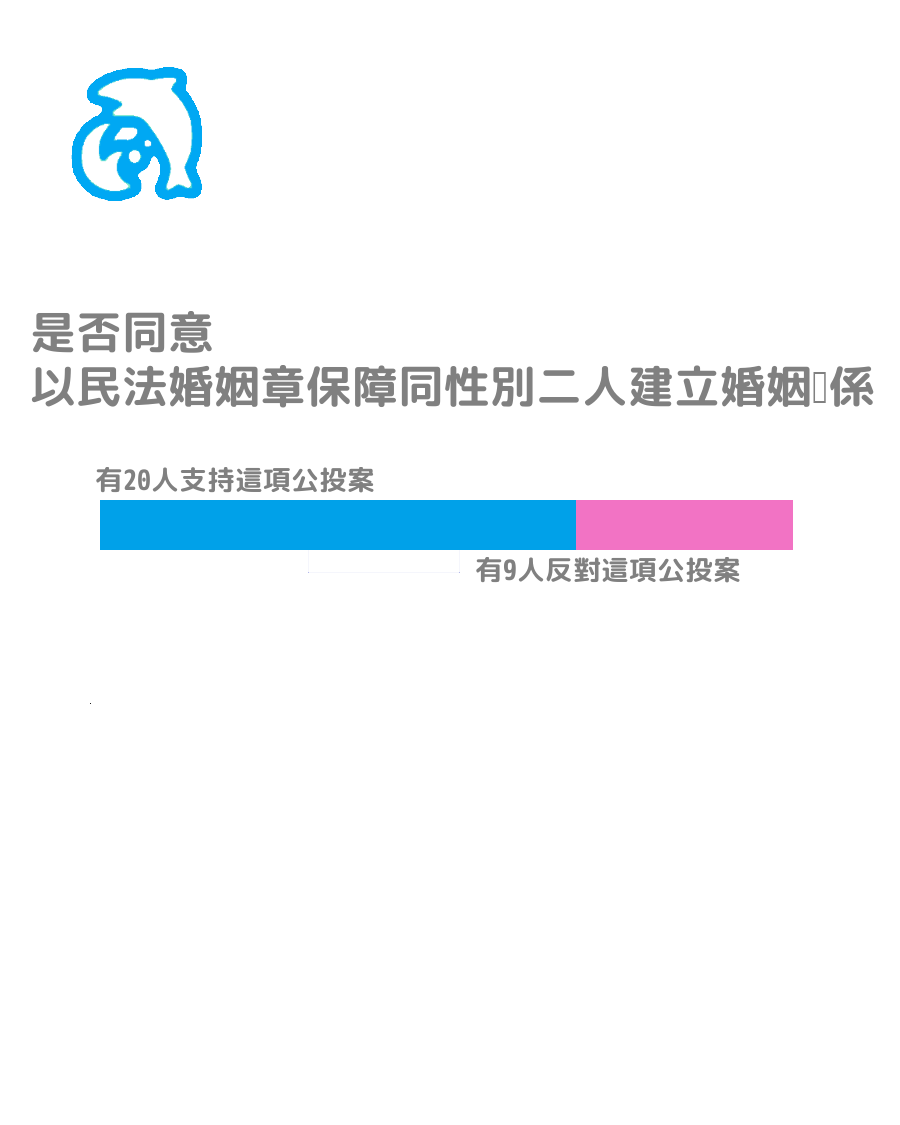
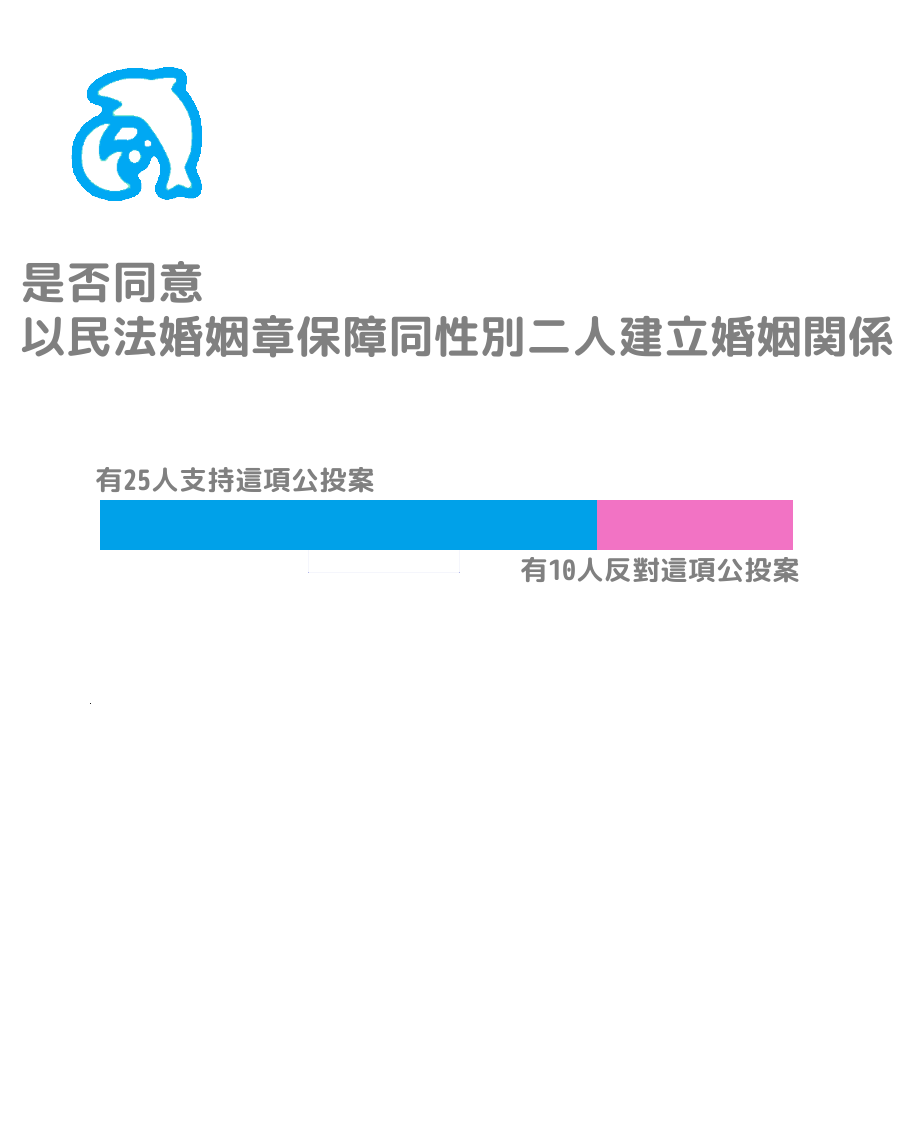
Add referundum15

Changed region(s): [[0.0, 0.2178, 0.9956, 0.3733], [0.5289, 0.4356, 0.9022, 0.5289]]

diff --git a/fsm.py b/fsm.py
@@ -298,8 +298,8 @@ class TocMachine(GraphMachine):
         print("I'm entering Referendum14")
 
         sender_id = event['sender']['id']
-        send_image_url(sender_id,opinionPoll('14','agree','是否同意'+'\n'+'以民法婚姻章保障同性別二人建立婚姻關係'))
-        #send_image_url(sender_id, "https://i.imgur.com/TD6h7i9.png")
+        send_image_url(sender_id,opinionPoll('14','agree','是否同意'+'\n'+'以民法婚姻章保障同性別二人建立婚姻関係'))
+        
         self.go_back()
 
     def is_going_to_Referendum14Oppose(self, event):
@@ -314,11 +314,58 @@ class TocMachine(GraphMachine):
         print("I'm entering Referendum14")
 
         sender_id = event['sender']['id']
-        send_image_url(sender_id,opinionPoll('14','oppose','是否同意'+'\n'+'以民法婚姻章保障同性別二人建立婚姻關係'))
+        send_image_url(sender_id,opinionPoll('14','oppose','是否同意'+'\n'+'以民法婚姻章保障同性別二人建立婚姻関係'))
         self.go_back()
         
-    
+    ############################################
+    def is_going_to_Referendum15(self, event):
+        if event.get("message"):
+            text = event['message']['text']
+            return text.lower() == '15'
+        return False
 
+
+
+    def on_enter_Referendum15(self, event):
+        print("I'm entering Referendum15")
+
+        sender_id = event['sender']['id']
+        send_text_message(sender_id, "如果同意")
+        send_text_message(sender_id, "主張性別教育應確實包含情感教育、性教育、尊重同志教育。公投案若通過，將使以上三者由「細則」提升到「法律」")
+        send_text_message(sender_id, "如果反對")
+        send_text_message(sender_id, "維持現狀，仍以性平法細則呈現")
+
+
+    def is_going_to_Referendum15Agree(self, event):
+        if event.get("message"):
+            text = event['message']['text']
+            return text.lower() == '同意'
+        return False
+
+
+
+    def on_enter_Referendum15Agree(self, event):
+        print("I'm entering Referendum15")
+
+        sender_id = event['sender']['id']
+        send_image_url(sender_id,opinionPoll('15','agree','是否同意，以『性別平等教育法』'+'\n'+'明定在國民教育各階段實施性別平等教育'+'\n'+'且應涵蓋情感教育.性教育.同志教育等課程'))
+        
+        self.go_back()
+
+    def is_going_to_Referendum15Oppose(self, event):
+        if event.get("message"):
+            text = event['message']['text']
+            return text.lower() == '反對'
+        return False
+
+
+
+    def on_enter_Referendum15Oppose(self, event):
+        print("I'm entering Referendum15")
+
+        sender_id = event['sender']['id']
+        send_image_url(sender_id,opinionPoll('15','oppose','是否同意，以『性別平等教育法』'+'\n'+'明定在國民教育各階段實施性別平等教育'+'\n'+'且應涵蓋情感教育.性教育.同志教育等課程'))
+        self.go_back()
     
 
 

diff --git a/app.py b/app.py
@@ -25,6 +25,9 @@ machine = TocMachine(
         'Referendum14',
         'Referendum14Agree',
         'Referendum14Oppose',
+        'Referendum15',
+        'Referendum15Agree',
+        'Referendum15Oppose',
         'NotState'
     ],
     transitions=[
@@ -120,6 +123,24 @@ machine = TocMachine(
             'conditions': 'is_going_to_Referendum14Oppose'
         },
         {
+            'trigger': 'advance',
+            'source': 'state3',
+            'dest': 'Referendum15',
+            'conditions': 'is_going_to_Referendum15'
+        },
+        {
+            'trigger': 'advance',
+            'source': 'Referendum15',
+            'dest': 'Referendum15Agree',
+            'conditions': 'is_going_to_Referendum15Agree'
+        },
+        {
+            'trigger': 'advance',
+            'source': 'Referendum15',
+            'dest': 'Referendum15Oppose',
+            'conditions': 'is_going_to_Referendum15Oppose'
+        },
+        {
             'trigger': 'go_back',
             'source': [
                 'TaipeiMayor',
@@ -130,7 +151,9 @@ machine = TocMachine(
                 'TaipeiRepresentative2',
                 'TaipeiRepresentative3',
                 'Referendum14Agree',
-                'Referendum14Oppose'
+                'Referendum14Oppose',
+                'Referendum15Agree',
+                'Referendum15Oppose'
             ],
             'dest': 'user'
         }

diff --git a/gp.py b/gp.py
@@ -13,7 +13,7 @@ SCOPES = 'https://www.googleapis.com/auth/spreadsheets'
 
 # The ID and range of a sample spreadsheet.
 SAMPLE_SPREADSHEET_ID = '1njdbmnp042pPbi5jqzCWzu2Ffr0wYOAtQKcJnSMvXwc'
-SAMPLE_RANGE_NAME = '14!A1:E'
+
 
 
 def candidate(url,toPrint):
@@ -65,6 +65,10 @@ def candidate(url,toPrint):
 
 
 def opinionPoll(number,AOO,toPrint):
+
+    SAMPLE_RANGE_NAME = number+'!A1:E'
+
+
     im = Image.open( "bk.png" )
 
     ag = Image.open( "agree.png")
@@ -128,9 +132,9 @@ def opinionPoll(number,AOO,toPrint):
     smallfont=ImageFont.truetype("rounded-mplus-2m-bold.ttf",28)
     largefont=ImageFont.truetype("rounded-mplus-2m-bold.ttf",46)
 
-    draw.text( (30,300),toPrint,font=largefont,fill=(128,128,128))
+    draw.text( (20,250),toPrint,font=largefont,fill=(128,128,128))
     draw.text( (95,460),'有'+a[0]+'人支持這項公投案',font=smallfont,fill=(128,128,128))
-    draw.text( (475,550),'有'+a[1]+'人反對這項公投案',font=smallfont,fill=(128,128,128))
+    draw.text( (520,550),'有'+a[1]+'人反對這項公投案',font=smallfont,fill=(128,128,128))
 
     print(a[0])
     print(a[1])
